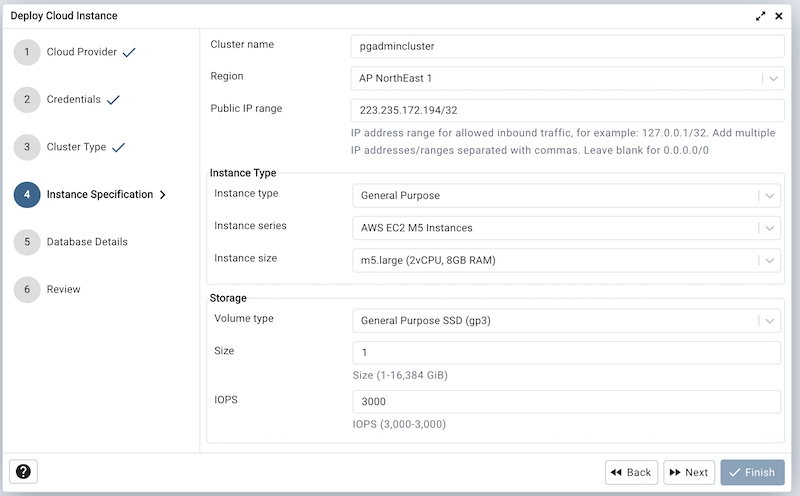
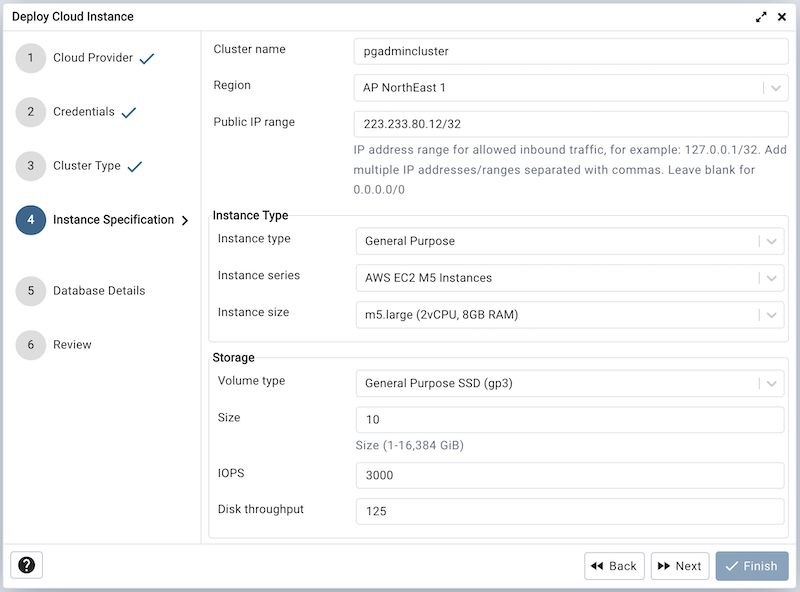
Enable cluster deployment with gp3 volume for AWS & BigAnimal cloud providers. #6323

diff --git a/web/pgadmin/misc/cloud/static/js/biganimal_schema.ui.js b/web/pgadmin/misc/cloud/static/js/biganimal_schema.ui.js
@@ -214,6 +214,7 @@ class BigAnimalVolumeSchema extends BaseUISchema {
       volume_properties: '',
       volume_size: 4,
       volume_IOPS: '',
+      disk_throughput: 125,
       ...initValues
     });
 
@@ -229,34 +230,41 @@ class BigAnimalVolumeSchema extends BaseUISchema {
   }
 
   validate(data, setErrMsg) {
-    if (data.provider != CLOUD_PROVIDERS.AWS && isEmptyString(data.volume_properties)) {
-      setErrMsg('replicas', gettext('Please select volume properties.'));
+    if (!data.provider.includes(CLOUD_PROVIDERS.AWS) && isEmptyString(data.volume_properties)) {
+      setErrMsg('volume_properties', gettext('Please select volume properties.'));
       return true;
     }
-    if (data.provider == CLOUD_PROVIDERS.AWS) {
+    if (data.provider.includes(CLOUD_PROVIDERS.AWS)) {
+      if (!isEmptyString(data.volume_size)) {
+        if( data.volume_type != 'io2' && (data.volume_size < 1 ||  data.volume_size > 16384)) {
+          setErrMsg('volume_size', gettext('Please enter the volume size in the range between 1 to 16384.'));
+          return true;
+        }
+        if (data.volume_type == 'io2' && (data.volume_size < 4 ||  data.volume_size > 16384)) {
+          setErrMsg('volume_size', gettext('Please enter the volume size in the range between 4 to 16384.'));
+          return true;
+        }
+      }
       if (isEmptyString(data.volume_IOPS)) {
-        setErrMsg('replicas', gettext('Please select volume IOPS.'));
+        setErrMsg('volume_IOPS', gettext('Please enter volume IOPS.'));
         return true;
       }
-      if (!isEmptyString(data.volume_size)) {
-        if( data.volume_IOPS != 'io2' && (data.volume_size < 1 ||  data.volume_size > 16384)) {
-          setErrMsg('replicas', gettext('Please enter the volume size in the range between 1 tp 16384.'));
+      else if (!isEmptyString(data.volume_IOPS)) {
+        if(data.volume_type == 'io2' && (data.volume_IOPS < 100 || data.volume_IOPS > Math.min(data.volume_size*500, 64000))) {
+          let errMsg = 'Please enter the volume IOPS in the range between 100 to ' + Math.min(data.volume_size*500, 64000) + '.';
+          setErrMsg('volume_IOPS', gettext(errMsg));
           return true;
         }
-        if (data.volume_IOPS == 'io2' && (data.volume_size < 4 ||  data.volume_size > 16384)) {
-          setErrMsg('replicas', gettext('Please enter the volume size in the range between 4 tp 16384.'));
+        if(data.volume_type == 'gp3' && (data.volume_IOPS < 3000 || data.volume_IOPS > Math.min(Math.max(data.volume_size*500, 3000), 16000))) {
+          let errMsg = 'Please enter the volume IOPS in the range between 3000 to ' + Math.min(Math.max(data.volume_size*500, 3000), 16000) + '.';
+          setErrMsg('volume_IOPS', gettext(errMsg));
           return true;
         }
       }
-      if (!isEmptyString(data.volume_IOPS)) {
-        if(data.volume_IOPS != 'io2' && data.volume_IOPS != 3000) {
-          setErrMsg('replicas', gettext('Please enter the volume IOPS 3000.'));
-          return true;
-        }
-        if(data.volume_IOPS == 'io2' && (data.volume_IOPS < 100 ||  data.volume_IOPS > 2000)) {
-          setErrMsg('replicas', gettext('Please enter the volume IOPS in the range between 100 tp 2000.'));
-          return true;
-        }
+      if ( data.volume_type === 'gp3' && !isEmptyString(data.disk_throughput) && (data.disk_throughput < 125 ||  data.disk_throughput > Math.min( ((data.volume_IOPS - 3000)/100*25 + 750) , 1000))) {
+        let errMsg = 'Please enter the Disk throughput in the range between 125 to ' + Math.min( ((data.volume_IOPS - 3000)/100*25+750) , 1000) + '.';
+        setErrMsg('disk_throughput', gettext(errMsg));
+        return true;
       }
     }
     return false;
@@ -295,7 +303,7 @@ class BigAnimalVolumeSchema extends BaseUISchema {
           };
         },
         visible: (state) => {
-          return state.provider !== CLOUD_PROVIDERS.AWS;
+          return state.provider === CLOUD_PROVIDERS.AZURE;
         },
       }, {
         id: 'volume_size', label: gettext('Size'), type: 'text',
@@ -303,7 +311,7 @@ class BigAnimalVolumeSchema extends BaseUISchema {
         depChange: (state, source)=> {
           obj.volumeType = state.volume_type;
           if (source[0] !== 'volume_size') {
-            if(state.volume_type == 'io2' || state.provider === CLOUD_PROVIDERS.AZURE) {
+            if(state.volume_type == 'io2') {
               return {volume_size: 4};
             } else {
               return {volume_size: 1};
@@ -311,20 +319,19 @@ class BigAnimalVolumeSchema extends BaseUISchema {
           }
         },
         visible: (state) => {
-          return state.provider === CLOUD_PROVIDERS.AWS;
+          return state.provider && state.provider.includes(CLOUD_PROVIDERS.AWS);
         },
         helpMessage: obj.volumeType == 'io2' ? gettext('Size (4-16,384 GiB)') : gettext('Size (1-16,384 GiB)')
       }, {
         id: 'volume_IOPS', label: gettext('IOPS'), type: 'text',
         mode: ['create'],
-        helpMessage: obj.volumeType == 'io2' ? gettext('IOPS (100-2,000)') : gettext('IOPS (3,000-3,000)'),
         visible: (state) => {
-          return state.provider === CLOUD_PROVIDERS.AWS;
+          return state.provider && state.provider.includes(CLOUD_PROVIDERS.AWS);
         }, deps: ['volume_type'],
         depChange: (state, source) => {
           obj.volumeType = state.volume_type;
           if (source[0] !== 'volume_IOPS') {
-            if (state.provider === CLOUD_PROVIDERS.AWS) {
+            if (state.provider.includes(CLOUD_PROVIDERS.AWS)) {
               if(state.volume_type === 'io2') {
                 return {volume_IOPS: 100};
               } else {
@@ -335,7 +342,14 @@ class BigAnimalVolumeSchema extends BaseUISchema {
             }
           }
         },
-      },
+      },{
+        id: 'disk_throughput', label: gettext('Disk throughput'), type: 'text',
+        mode: ['create'],
+        deps : ['volume_type'],
+        visible: (state) => {
+          return state.provider && state.provider.includes(CLOUD_PROVIDERS.AWS) && state.volume_type === 'gp3';
+        }
+      }
     ];
   }
 }
@@ -426,6 +440,7 @@ class BigAnimalClusterSchema extends BaseUISchema {
       region: '',
       cloud_type: 'public',
       biganimal_public_ip: initValues.hostIP,
+      disk_throughput: 125,
       ...initValues
     });
 

diff --git a/web/pgadmin/misc/cloud/static/js/aws_schema.ui.js b/web/pgadmin/misc/cloud/static/js/aws_schema.ui.js
@@ -270,6 +270,7 @@ export class StorageSchema extends BaseUISchema {
         id: 'storage_type', label: gettext('Storage type'), type: 'select',
         mode: ['create'],
         options: [
+          {'label': gettext('General Purpose SSD (gp3)'), 'value': 'gp3'},
           {'label': gettext('General Purpose SSD (gp2)'), 'value': 'gp2'},
           {'label': gettext('Provisioned IOPS SSD (io1)'), 'value': 'io1'},
           {'label': gettext('Magnetic'), 'value': 'standard'}
@@ -281,7 +282,7 @@ export class StorageSchema extends BaseUISchema {
           if (source[0] !== 'storage_size')
             if(state.storage_type === 'io1') {
               return {storage_size: 100};
-            } else if(state.storage_type === 'gp2') {
+            } else if(state.storage_type === 'gp2' || state.storage_type === 'gp3') {
               return {storage_size: 20};
             } else {
               return {storage_size: 5};
@@ -303,6 +304,22 @@ export class StorageSchema extends BaseUISchema {
         },
       },
     ];
+  }
+
+  validate(data, setErrMsg) {
+    if(!isEmptyString(data.storage_type) && (data.storage_type === 'gp2' || data.storage_type === 'gp3') && !isEmptyString(data.storage_size) && (data.storage_size < 4 || data.storage_size > 65536)) {
+      setErrMsg('storage_size', gettext('Allocated storage should be between 20 - 65536 GiB.'));
+      return true;
+    }
+    if(!isEmptyString(data.storage_type) && data.storage_type === 'io1' && !isEmptyString(data.storage_size) && (data.storage_size < 100 || data.storage_size > 65536)) {
+      setErrMsg('storage_size', gettext('Allocated storage should be between 100 - 65536 GiB.'));
+      return true;
+    }
+    if(!isEmptyString(data.storage_type) && data.storage_type === 'standard' && !isEmptyString(data.storage_size) && (data.storage_size < 5 || data.storage_size > 3072)) {
+      setErrMsg('storage_size', gettext('Allocated storage should be between 5 - 3072 GiB.'));
+      return true;
+    }
+    return false;
   }
 }
 

diff --git a/web/pgadmin/misc/cloud/static/js/biganimal.js b/web/pgadmin/misc/cloud/static/js/biganimal.js
@@ -242,9 +242,12 @@ export function getBigAnimalSummary(cloud, bigAnimalClusterTypeData, bigAnimalIn
 
   const rows4 = [
     createData(gettext('Volume type'), bigAnimalInstanceData.volume_type),
-    createData(gettext('Volume size'), bigAnimalInstanceData.volume_size),
-    createData(gettext('Volume IOPS'), bigAnimalInstanceData.volume_IOPS),
+    createData(gettext('Volume size'), bigAnimalInstanceData.volume_size)
   ];
+  if(bigAnimalClusterTypeData.provider.includes('aws')){
+    rows4.push(createData(gettext('Volume IOPS'), bigAnimalInstanceData.volume_IOPS));
+    rows4.push(createData(gettext('Disk Throuhgput'), bigAnimalInstanceData.disk_throughput));
+  }
 
   const rows5 = [
     createData(gettext('Password'), 'xxxxxxx'),
@@ -271,20 +274,9 @@ export function validateBigAnimalStep3(cloudDetails) {
   if (isEmptyString(cloudDetails.name) ||
   isEmptyString(cloudDetails.region) || isEmptyString(cloudDetails.instance_type) ||
   isEmptyString(cloudDetails.instance_series)|| isEmptyString(cloudDetails.instance_size) ||
-  isEmptyString(cloudDetails.volume_type) || (cloudDetails.provider != 'aws' && isEmptyString(cloudDetails.volume_properties)) ) {
+  isEmptyString(cloudDetails.volume_type) || (!cloudDetails.provider.includes('aws') && isEmptyString(cloudDetails.volume_properties)) ) {
     isError = true;
   }
-
-  if (cloudDetails.provider == 'aws') {
-    if (isEmptyString(cloudDetails.volume_IOPS) || (cloudDetails.volume_IOPS != 'io2' &&
-     (cloudDetails.volume_size < 1 ||  cloudDetails.volume_size > 16384)) ||
-     (cloudDetails.volume_IOPS == 'io2' && (cloudDetails.volume_size < 4 ||  cloudDetails.volume_size > 16384)) ||
-     (cloudDetails.volume_IOPS != 'io2' && cloudDetails.volume_IOPS != 3000) ||
-     (cloudDetails.volume_IOPS == 'io2' && (cloudDetails.volume_IOPS < 100 ||  cloudDetails.volume_IOPS > 2000))) {
-      isError = true;
-    }
-  }
-
   return isError;
 }
 

diff --git a/web/pgadmin/misc/cloud/static/js/aws.js b/web/pgadmin/misc/cloud/static/js/aws.js
@@ -252,7 +252,8 @@ const getStorageType = (cloudInstanceDetails) => {
   let _storage_type = 'General Purpose SSD (gp2)',
     _io1 = undefined;
 
-  if(cloudInstanceDetails.storage_type == 'gp2') _storage_type = 'General Purpose SSD (gp2)';
+  if(cloudInstanceDetails.storage_type == 'gp2'){ _storage_type = 'General Purpose SSD (gp2)';}
+  else if (cloudInstanceDetails.storage_type == 'gp3'){ _storage_type = 'General Purpose SSD (gp3)';}
   else if(cloudInstanceDetails.storage_type == 'io1') {
     _storage_type = 'Provisioned IOPS SSD (io1)';
     _io1 = cloudInstanceDetails.storage_IOPS;

diff --git a/web/pgacloud/providers/biganimal.py b/web/pgacloud/providers/biganimal.py
@@ -77,6 +77,9 @@ class BigAnimalProvider(AbsProvider):
         parser_create_instance.add_argument('--volume-IOPS',
                                             required=True,
                                             help='storage IOPS')
+        parser_create_instance.add_argument('--throughput',
+                                            required=False,
+                                            help='Disk throughput')
         parser_create_instance.add_argument('--private-network', required=True,
                                             help='Private or Public Network')
         parser_create_instance.add_argument('--public-ip', default='',
@@ -128,7 +131,8 @@ class BigAnimalProvider(AbsProvider):
                     'volumePropertiesId': args.volume_properties,
                     'volumeTypeId': args.volume_type,
                     'iops': args.volume_IOPS,
-                    'size': args.volume_size + ' Gi'
+                    'size': args.volume_size + ' Gi',
+                    'throughput': args.throughput
                 },
                 'clusterArchitecture': {
                     'clusterArchitectureId': args.cluster_arch,

diff --git a/web/pgacloud/providers/aws.py b/web/pgacloud/providers/aws.py
@@ -207,7 +207,6 @@ class RdsProvider(AbsProvider):
                                    EngineVersion=args.db_version,
                                    StorageType=args.storage_type,
                                    StorageEncrypted=True,
-                                   Iops=args.storage_iops,
                                    AutoMinorVersionUpgrade=True,
                                    MultiAZ=bool(args.high_availability),
                                    MasterUsername=args.db_username,
@@ -215,7 +214,8 @@ class RdsProvider(AbsProvider):
                                    DBInstanceClass=args.instance_type,
                                    VpcSecurityGroupIds=[
                                        security_group,
-                                   ])
+                                   ], **({"Iops": args.storage_iops}
+                                         if args.storage_iops else {}))
 
         except rds.exceptions.DBInstanceAlreadyExistsFault as e:
             try:

diff --git a/web/pgadmin/misc/cloud/biganimal/__init__.py b/web/pgadmin/misc/cloud/biganimal/__init__.py
@@ -19,8 +19,7 @@ from werkzeug.datastructures import Headers
 from pgadmin.utils import PgAdminModule
 from pgadmin.misc.cloud.utils import _create_server, CloudProcessDesc
 from pgadmin.misc.bgprocess.processes import BatchProcess
-from pgadmin.utils.ajax import make_json_response,\
-    internal_server_error, bad_request, success_return
+from pgadmin.utils.ajax import make_json_response
 from config import root
 from pgadmin.utils.constants import MIMETYPE_APP_JSON
 
@@ -495,6 +494,8 @@ def deploy_on_biganimal(data):
             str(data['instance_details'].get('volume_size', None)),
             '--volume-IOPS',
             str(data['instance_details'].get('volume_IOPS', None)),
+            '--throughput',
+            str(data['instance_details'].get('disk_throughput', None)),
             '--instance-type',
             str(_instance_size),
             '--private-network',

diff --git a/web/pgadmin/misc/cloud/rds/__init__.py b/web/pgadmin/misc/cloud/rds/__init__.py
@@ -102,7 +102,7 @@ def get_db_instances():
         )
 
     if not eng_version or eng_version == '' or eng_version == 'undefined':
-        eng_version = '10.17'
+        eng_version = '11.16'
 
     rds_obj = pickle.loads(session['aws']['aws_rds_obj'])
     res = rds_obj.get_available_db_instance_class(

diff --git a/docs/en_US/cloud_edb_biganimal.rst b/docs/en_US/cloud_edb_biganimal.rst
@@ -66,6 +66,8 @@ details.
 
 * Use the *Volume IOPS* field to specify the storage IOPS. This field is specific to AWS.
 
+* Use the *Disk throughput* field to specify the disk throughput. This field is specific to AWS.
+
 
 .. image:: images/cloud_biganimal_database.png
     :alt: Cloud Deployment Provider
